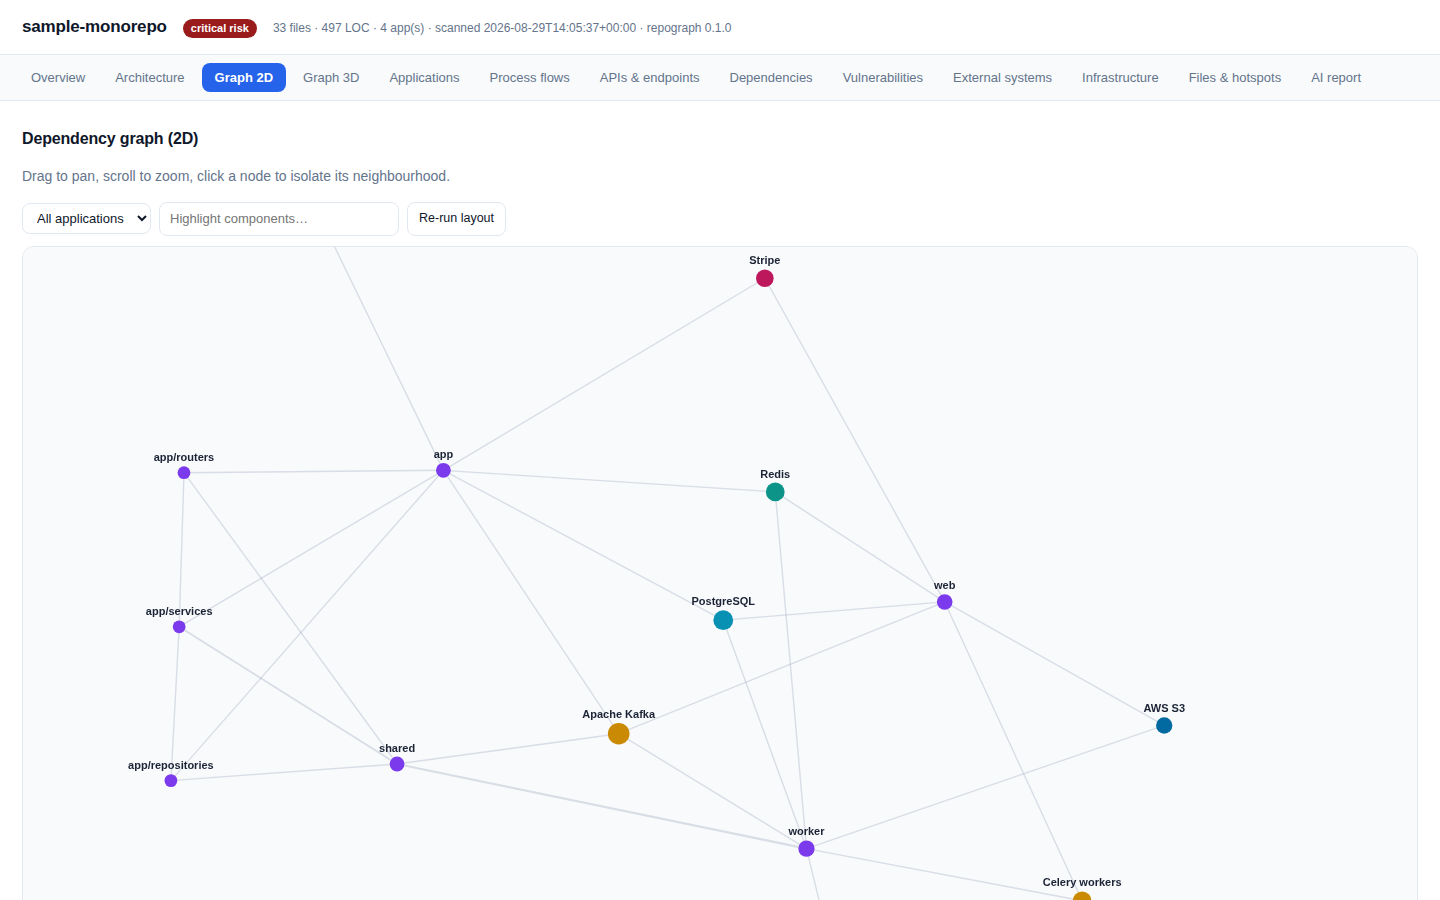
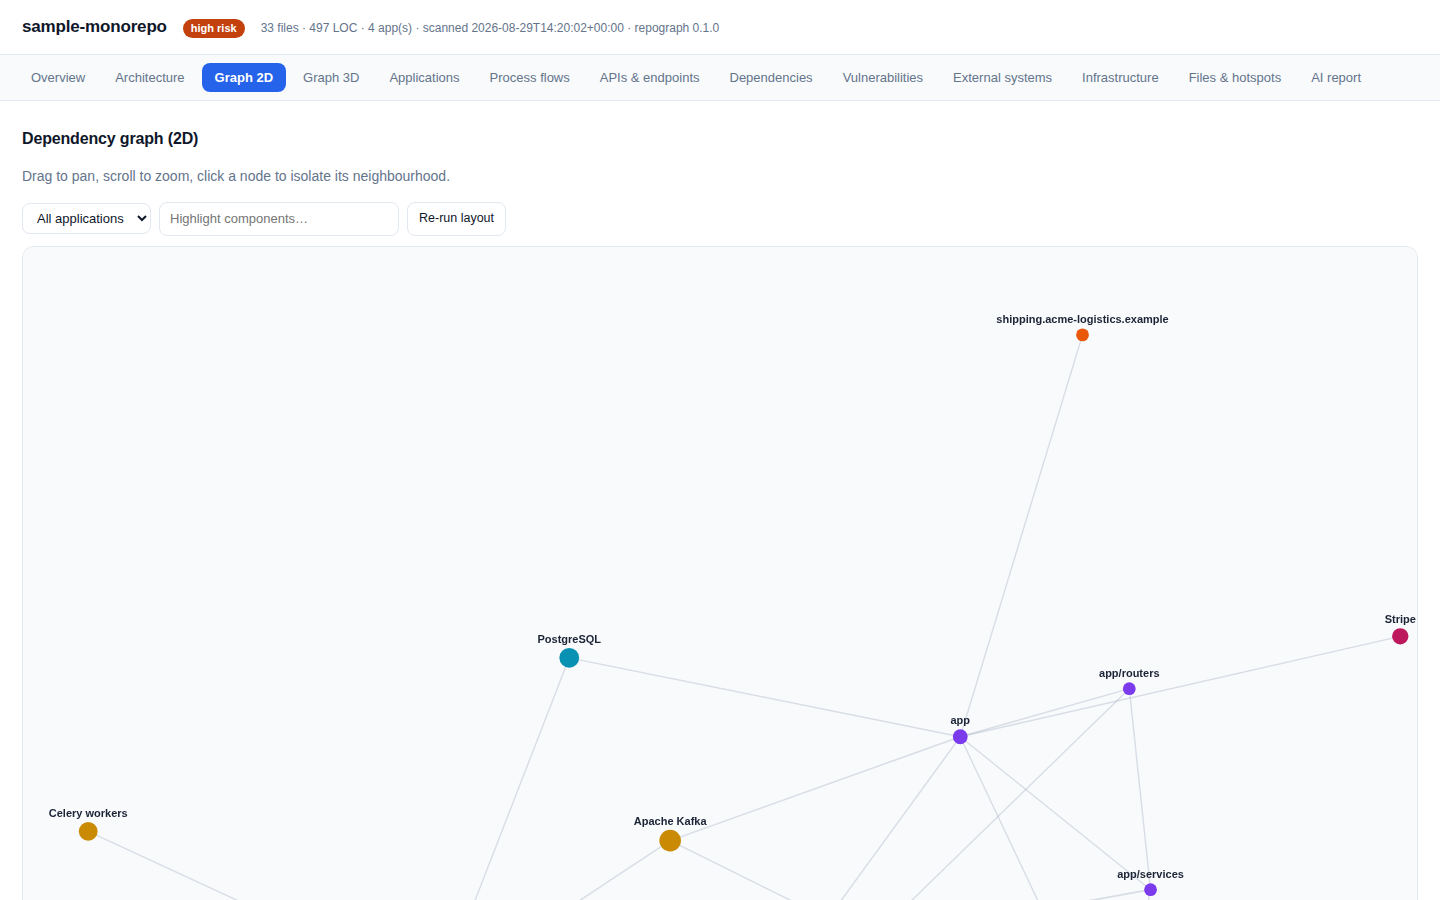
Derive each application's purpose from its code, not its README
A README goes stale; routes, entity names, data stores and integrations do not.
Every application now carries a `purpose` inferred from what the code actually
does — its domain nouns, endpoint shape, backing stores, external integrations
and its relationships with other applications in the repository — reported
alongside whatever the README or manifest claims so the two can be compared.

Also in this change:

- Compose-detected backing services are attributed to the applications whose own
  services declare depends_on them, instead of to whichever application happened
  to sit nearest the compose file. A frontend is no longer credited with the
  database its sibling API uses.
- Files above every application root map to the repository rather than to an
  arbitrary application.
- The hardcoded-secret rule no longer anchors on a word boundary, so DB_PASSWORD
  and stripeApiKey are caught, not just bare `password`.
- The sample fixture's fake payment key was replaced with a generic hardcoded
  secret: the previous value tripped GitHub push protection.
- The OSV failure warning now names the error and points at the proxy variables.
- Python 3.9 gets a static stdlib list, since sys.stdlib_module_names is 3.10+;
  without it every `import os` was reported as an undeclared dependency there.

Claude-Session: https://claude.ai/code/session_015WQ1mKQWJQw3mDqwg35MTD

diff --git a/packages/repograph-core/src/repograph_core/apps.py b/packages/repograph-core/src/repograph_core/apps.py
@@ -233,7 +233,9 @@ class AppBuilder:
                     mapping[f.rel] = root
                     break
             else:
-                mapping[f.rel] = ordered[-1] if ordered else ""
+                # A file above every application root belongs to the repository,
+                # not to whichever application happens to sort last.
+                mapping[f.rel] = "" if ordered and ordered[-1] else (ordered[-1] if ordered else "")
         return mapping
 
     # ------------------------------------------------------------ components
@@ -435,3 +437,124 @@ def build_apps(root: str, files: List[ScanFile], manifests: List[Manifest], repo
         apps.append(app)
 
     return apps, components, app_of_file
+
+
+# --------------------------------------------------------------- purpose
+
+_STOP_SEGMENTS = {
+    "api", "apis", "v1", "v2", "v3", "graphql", "rest", "rpc", "health", "healthz", "ready",
+    "readyz", "live", "livez", "metrics", "status", "ping", "docs", "swagger", "openapi",
+    "static", "assets", "public", "index", "root", "web", "app", "internal", "admin", "auth",
+    "callback", "webhook", "webhooks", "_next", "favicon.ico",
+}
+_GENERIC_TYPES = {
+    "config", "settings", "base", "main", "app", "application", "client", "server", "handler",
+    "handlers", "service", "services", "repository", "manager", "helper", "helpers", "utils",
+    "util", "error", "errors", "exception", "test", "tests", "mock", "factory", "builder",
+    "request", "response", "options", "result", "context", "logger", "middleware", "router",
+}
+_CRUD_METHODS = {"POST", "PUT", "PATCH", "DELETE"}
+
+
+def _singular(word: str) -> str:
+    lowered = word.lower()
+    if lowered.endswith("ies") and len(lowered) > 4:
+        return lowered[:-3] + "y"
+    if lowered.endswith("ses") or lowered.endswith("xes"):
+        return lowered[:-2]
+    if lowered.endswith("s") and not lowered.endswith("ss"):
+        return lowered[:-1]
+    return lowered
+
+
+def domain_nouns(endpoints: Sequence, symbols: Sequence, limit: int = 6) -> List[str]:
+    """The subjects this application actually deals with.
+
+    Route segments and entity type names beat a README, because they cannot go
+    stale without the code changing too.
+    """
+    counts: Dict[str, int] = {}
+
+    def bump(word: str, weight: int) -> None:
+        # "fulfil_order" and "OrderLine" are two nouns each, not one.
+        for token in re.split(r"[^a-zA-Z]+|(?<=[a-z0-9])(?=[A-Z])", str(word)):
+            if len(token) < 3:
+                continue
+            noun = _singular(token)
+            if noun in _STOP_SEGMENTS or noun in _GENERIC_TYPES:
+                continue
+            counts[noun] = counts.get(noun, 0) + weight
+
+    for endpoint in endpoints:
+        for segment in str(getattr(endpoint, "path", "")).split("/"):
+            if not segment or segment.startswith(("{", ":", "<", "*", "$")):
+                continue
+            bump(segment, 3)
+        handler = str(getattr(endpoint, "handler", ""))
+        for part in re.split(r"[._]|(?<=[a-z])(?=[A-Z])", handler):
+            bump(part, 1)
+
+    for symbol in symbols:
+        if symbol.kind in ("class", "struct", "record", "table", "message", "interface", "entity"):
+            name = symbol.name.rsplit(".", 1)[-1]
+            for suffix in ("Controller", "Service", "Repository", "Handler", "Model", "Entity",
+                           "Dto", "DTO", "Schema", "Resource", "Manager"):
+                if name.endswith(suffix) and len(name) > len(suffix):
+                    name = name[: -len(suffix)]
+                    break
+            for part in re.split(r"(?<=[a-z0-9])(?=[A-Z])|_", name):
+                bump(part, 2)
+
+    ranked = sorted(counts.items(), key=lambda kv: (-kv[1], kv[0]))
+    return [noun for noun, weight in ranked if weight > 1][:limit]
+
+
+def infer_purpose(app: App, endpoints: Sequence, symbols: Sequence,
+                  systems: Sequence, dependent_names: Sequence[str] = (),
+                  depends_on_names: Sequence[str] = ()) -> str:
+    """A one-paragraph description derived only from code, for when there is no
+    README — or when the README no longer matches what the code does."""
+    nouns = domain_nouns(endpoints, symbols)
+    http = [e for e in endpoints if e.kind in ("http", "graphql", "grpc", "websocket")]
+    events = [e for e in endpoints if e.kind in ("event", "cron")]
+    commands = [e for e in endpoints if e.kind == "cli"]
+    stores = [s.name for s in systems if s.kind in ("database", "cache", "storage", "search")]
+    integrations = [s.name for s in systems if s.kind in ("api", "queue", "payment", "auth",
+                                                          "mail", "ai")]
+
+    role = {
+        "service": "Backend service", "frontend": "User interface", "job": "Background worker",
+        "library": "Shared library", "cli": "Command line tool", "infra": "Infrastructure code",
+        "docs": "Documentation",
+    }.get(app.kind, "Application")
+
+    sentences: List[str] = []
+    subject = ", ".join(nouns[:4]) if nouns else ""
+    opening = f"{role} written in {app.languages[0]}" if app.languages else role
+    if app.frameworks:
+        opening += f" using {', '.join(app.frameworks[:2])}"
+    if subject:
+        opening += f", built around {subject}"
+    sentences.append(opening + ".")
+
+    if http:
+        methods = {e.method for e in http}
+        shape = "CRUD-style" if methods & _CRUD_METHODS and "GET" in methods else "read-oriented"
+        sentences.append(f"Exposes {len(http)} {shape} endpoint(s)"
+                         + (f" over {', '.join(nouns[:3])}" if nouns else "") + ".")
+    if events:
+        sentences.append(f"Reacts to {len(events)} event or scheduled trigger(s).")
+    if commands:
+        sentences.append(f"Provides {len(commands)} command line entrypoint(s).")
+    if not (http or events or commands) and app.kind == "library":
+        sentences.append("Has no entrypoints of its own; it is consumed by other code"
+                         + (f" ({', '.join(dependent_names[:3])})" if dependent_names else "") + ".")
+    if stores:
+        sentences.append(f"Persists or caches data in {', '.join(dict.fromkeys(stores))[:120]}.")
+    if integrations:
+        sentences.append(f"Talks to {', '.join(dict.fromkeys(integrations))[:140]}.")
+    if depends_on_names:
+        sentences.append(f"Uses {', '.join(dict.fromkeys(depends_on_names))[:120]} from this repository.")
+    if dependent_names and app.kind != "library":
+        sentences.append(f"Depended on by {', '.join(dependent_names[:4])}.")
+    return " ".join(sentences)

diff --git a/packages/repograph-core/src/repograph_core/scan.py b/packages/repograph-core/src/repograph_core/scan.py
@@ -27,6 +27,7 @@ from .model import (
     Edge,
     Endpoint,
     Evidence,
+    ExternalSystem,
     FileInfo,
     Finding,
     Metrics,
@@ -239,6 +240,8 @@ def scan(options: ScanOptions) -> ScanResult:
             system.apps = dedupe([app_of_file.get(ev.file, "") for ev in system.evidence if ev.file])
             system.apps = [a for a in system.apps if a]
 
+    _attribute_compose_systems(infra, external_systems, app_list)
+
     systems_by_file: Dict[str, List[str]] = defaultdict(list)
     for system in external_systems:
         for ev in system.evidence:
@@ -291,6 +294,24 @@ def scan(options: ScanOptions) -> ScanResult:
         )
 
     findings = _dedupe_findings(findings)
+
+    # ------------------------------------------------- 8b. inferred purpose
+    app_names = {a.id: a.name for a in app_list}
+    for app in app_list:
+        dependents = [app_names.get(e.source, "") for e in app_edges + infra_edges
+                      if e.target == app.id]
+        depends_on = [app_names.get(e.target, "") for e in app_edges + infra_edges
+                      if e.source == app.id]
+        app.purpose = apps_mod.infer_purpose(
+            app,
+            [e for e in endpoints if e.app == app.id],
+            [s for s in symbols if s.app == app.id],
+            [s for s in external_systems if app.id in s.apps],
+            [name for name in dependents if name],
+            [name for name in depends_on if name],
+        )
+        if not app.description:
+            app.description = app.purpose
 
     # ----------------------------------------------------------- 9. models
     options.notify("Deriving flows and models", 0, 0)
@@ -463,6 +484,36 @@ def _match_loosely(merged: Dict[Tuple[str, str], Dependency], name: str, ecosyst
     return None
 
 
+def _attribute_compose_systems(infra: InfraScanner, systems: Sequence[ExternalSystem],
+                               apps: Sequence[App]) -> None:
+    """A ``postgres:15`` service in compose belongs to the applications whose own
+    services declare ``depends_on`` it — not to whichever app happens to sit
+    closest to the compose file."""
+    by_name = {c["name"]: c for c in infra.containers}
+    app_by_dir = {a.root: a.id for a in apps if a.root}
+    service_system: Dict[str, str] = {}
+    for system in systems:
+        for evidence in system.evidence:
+            note = evidence.note or ""
+            if note.startswith("service "):
+                service_system[note[len("service "):].split(":")[0].strip()] = system.id
+    if not service_system:
+        return
+    by_id = {s.id: s for s in systems}
+    for container in infra.containers:
+        build = str(container.get("build", "")).strip("./")
+        app_id = app_by_dir.get(build)
+        if not app_id:
+            continue
+        for target in container.get("depends_on", []):
+            system_id = service_system.get(str(target))
+            if not system_id and str(target) in by_name:
+                continue
+            system = by_id.get(system_id or "")
+            if system is not None and app_id not in system.apps:
+                system.apps.append(app_id)
+
+
 def _container_edges(infra: InfraScanner, apps: Sequence[App]) -> List[Edge]:
     edges: List[Edge] = []
     by_name = {c["name"]: c for c in infra.containers}
@@ -504,7 +555,8 @@ def _summarise(result: ScanResult, ranks: Dict[str, float], fan_in: Dict[str, in
     root_readme = readmes.get("README.md") or readmes.get("readme.md") or ""
     purpose = apps_mod.readme_summary(root_readme, 600) if root_readme else ""
     if not purpose and result.apps:
-        purpose = result.apps[0].description
+        largest = max(result.apps, key=lambda a: a.loc)
+        purpose = largest.description or largest.purpose
 
     kinds = {app.kind for app in result.apps}
     if len(result.apps) > 1:

diff --git a/packages/repograph-render/src/repograph_render/report_html.py b/packages/repograph-render/src/repograph_render/report_html.py
@@ -302,16 +302,24 @@ def _apps(result: ScanResult, diagrams: Dict[str, str], mermaid: Dict[str, str])
     for app in result.apps:
         components = [c for c in result.components if c.app == app.id]
         systems = [s for s in result.external_systems if app.id in s.apps]
-        depends = [e_.target for e_ in result.edges if e_.kind == "depends" and e_.source == app.id]
-        depended = [e_.source for e_ in result.edges if e_.kind == "depends" and e_.target == app.id]
+        # "depends" comes from imports, "deploy" from compose depends_on — both
+        # are real relationships between applications.
+        kinds = ("depends", "deploy")
+        depends = [e_.target for e_ in result.edges if e_.kind in kinds and e_.source == app.id]
+        depended = [e_.source for e_ in result.edges if e_.kind in kinds and e_.target == app.id]
         names = {a.id: a.name for a in result.apps}
         diagram = diagrams.get(f"components-{app.id}", "")
         diagram_block = (f'<details><summary>Component diagram</summary>'
                          f'<div class="diagram">{diagram}</div></details>') if diagram else ""
+        purpose_block = ""
+        if app.purpose and app.purpose != app.description:
+            purpose_block = (f'<p class="small muted"><b>Read from the code:</b> '
+                             f'{e(app.purpose)}</p>')
         blocks.append(f"""<div class="panel">
 <h3 style="color:var(--ink);text-transform:none;font-size:15px">{e(app.name)}
  <span class="tag">{e(app.kind)}</span></h3>
-<p class="small muted">{e(app.description or 'No description found in a README or manifest.')}</p>
+<p class="small">{e(app.description or 'No description found in a README or manifest.')}</p>
+{purpose_block}
 <dl class="kv small">
   <dt>Root</dt><dd class="mono">{e(app.root or '.')}</dd>
   <dt>Architecture style</dt><dd>{e(app.architecture_style)}</dd>

diff --git a/tests/test_end_to_end.py b/tests/test_end_to_end.py
@@ -229,3 +229,37 @@ class TestCli(unittest.TestCase):
 
 if __name__ == "__main__":
     unittest.main()
+
+
+class TestInferredPurpose(unittest.TestCase):
+    """The README can be stale, so purpose is also derived from the code."""
+
+    @classmethod
+    def setUpClass(cls):
+        cls.result = scan(ScanOptions(root=SAMPLE, git_history=False))
+
+    def by_name(self, name):
+        return next(a for a in self.result.apps if a.name == name)
+
+    def test_api_purpose_names_its_domain_and_stores(self):
+        purpose = self.by_name("acme-api").purpose
+        self.assertIn("Backend service", purpose)
+        self.assertIn("order", purpose)
+        self.assertIn("PostgreSQL", purpose)
+        self.assertIn("acme-shared", purpose)
+
+    def test_library_purpose_names_its_consumers(self):
+        purpose = self.by_name("acme-shared").purpose
+        self.assertIn("Shared library", purpose)
+        self.assertIn("acme-api", purpose)
+
+    def test_frontend_is_not_credited_with_backend_stores(self):
+        purpose = self.by_name("@acme/web").purpose
+        self.assertIn("User interface", purpose)
+        self.assertNotIn("PostgreSQL", purpose)
+        self.assertNotIn("Kafka", purpose)
+
+    def test_worker_reports_event_triggers(self):
+        purpose = self.by_name("acme-worker").purpose
+        self.assertIn("Background worker", purpose)
+        self.assertIn("event", purpose)

diff --git a/packages/repograph-render/src/repograph_render/report_ai.py b/packages/repograph-render/src/repograph_render/report_ai.py
@@ -93,7 +93,8 @@ frameworks: {', '.join(app.frameworks) or 'none detected'}
 size: {app.files} files, {app.loc} lines, {len(components)} components
 manifests: {', '.join(app.manifests) or 'none'}
 entrypoints: {', '.join(app.entrypoints) or 'none declared'}
-description: {app.description or 'not documented'}
+description (from README or manifest): {app.description or 'not documented'}
+inferred_purpose (derived from code, independent of any README): {app.purpose or 'n/a'}
 endpoints: {len(endpoints)}
 depends_on_apps: {', '.join(a.name for a in depends if a) or 'none'}
 depended_on_by: {', '.join(a.name for a in dependents if a) or 'none'}

diff --git a/packages/repograph-render/src/repograph_render/report_md.py b/packages/repograph-render/src/repograph_render/report_md.py
@@ -59,6 +59,8 @@ def render(result: ScanResult, mermaid: Dict[str, str]) -> str:
     for app in result.apps:
         if app.description:
             add(f"**{app.name}** — {app.description}\n")
+        if app.purpose and app.purpose != app.description:
+            add(f"> Read from the code: {app.purpose}\n")
 
     add("## 3. Architecture diagrams\n")
     add("### System context (C4 level 1)\n")

diff --git a/README.md b/README.md
@@ -114,6 +114,14 @@ from `file://`.
 
 ![3D dependency graph](docs/images/report-graph3d.png)
 
+### Read from the code, not from the README
+
+A README goes stale; the code cannot. Every application gets a purpose derived from its own
+routes, entity names, data stores and integrations — reported next to whatever the README claims,
+so you can see when the two disagree.
+
+![Applications view](docs/images/report-applications.png)
+
 ### Everything else
 
 | Area | What repograph reports |
